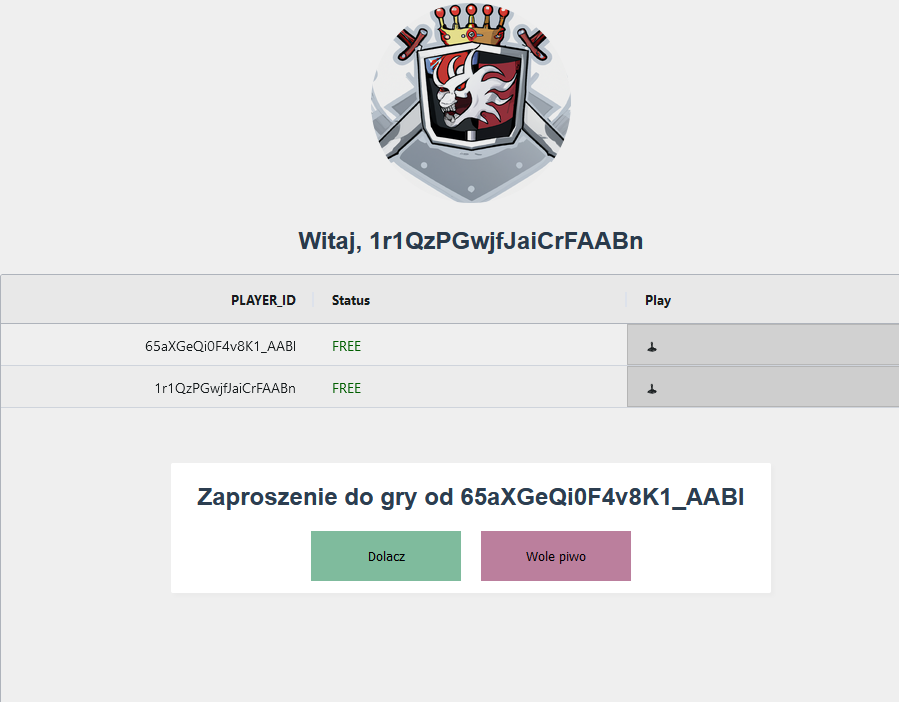
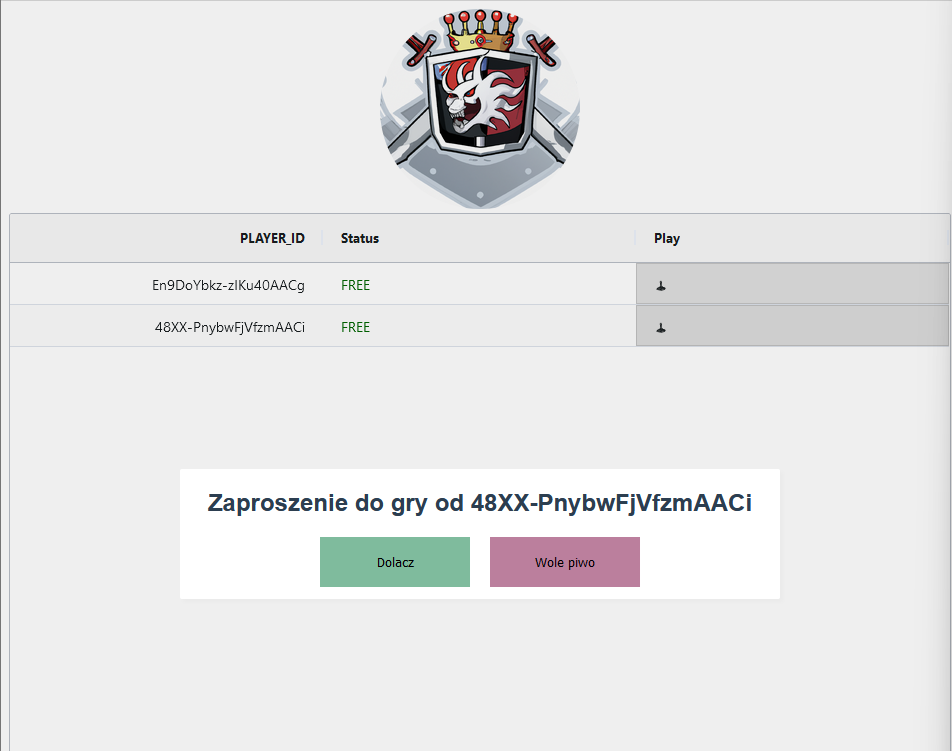
changes

diff --git a/src/views/GameRoom.vue b/src/views/GameRoom.vue
@@ -33,6 +33,7 @@ export default{
           this.board.ships.pop()
           if(this.board.ships.length<1){
             this.mode = 'ready'
+            alertE('Waiting for player move', true)
             this.socket.emit('iAmReady', {
               key:this.gameKey,
               player:this.player,
@@ -82,8 +83,10 @@ export default{
         console.log('game finished', params)
         if(params.looser === this.player.id){
           alertE('You lost')
+          alert('You lost')
         }else{
           alertE('You won')
+          alert('You won')
         }
         setTimeout(()=>{ location.reload()},1500)
       })
@@ -160,15 +163,14 @@ export default{
 </script>
 
 <template>
+  <div>
   <h3 style="margin-bottom:80px;">{{payload.pending}} <span style="color:#c0143c;">⚔</span> {{payload.asking}}</h3>
-  <div v-if="this.mode === 'ready'">
-    <h3 style="color:red; margin-bottom:30px;">READY!</h3>
-    <p class="nomargin">waiting...</p>
   </div>
-  <div v-if="this.opponentReady">
-    <h3 style="color:red; margin-bottom:80px;">Your Opponent is READY!</h3>
+  <div v-if="this.opponentReady" style="height:120px">
+
   </div>
-  <section class="board-container" style="margin-top:-180px;">
+  <section class="board-container" style="height:450px;" >
+    <div class="div" >
     <div style="display: grid;grid-template-columns: 1fr 1fr">
       <main class="board">
       <div v-for="field in this.board.fields.z"
@@ -181,6 +183,10 @@ export default{
       ></div>
       </main>
       <main style=" text-align:right;">
+        <div v-if="this.mode === 'ready'">
+          <h1>Oczekiwanie</h1>
+          <p class="nomargin">Poczekaj na przeciwnika....</p>
+        </div>
         <div v-if="this.mode === 'arrange'">
           <h1>Twoje statki</h1>
           <p class="nomargin">Ulokuj wszystkie statki klikając na pola</p>
@@ -217,6 +223,7 @@ export default{
         </div>
       </main>
     </div>
+    </div>
   </section>
 </template>
 
@@ -224,13 +231,17 @@ export default{
 .board-container{
   width:100vw;
   height:100vh;
-  display:flex;
-  justify-content: center;
-  align-items: center;
+  .div {
+    display: flex;
+    justify-content: center;
+    align-items: center;
+  }
 }
 .board{
   display:grid;
+  grid-gap:2px;
   width:fit-content;
+
   grid-template-columns: repeat(9,1fr);
 
 }

diff --git a/src/views/WaitingRoom.vue b/src/views/WaitingRoom.vue
@@ -51,7 +51,8 @@ export default{
               }
             },
             valueGetter:params=>{
-              return params.data.inGame ? 'IN GAME': 'FREE'
+              console.log('player.id',params.data)
+              return `${params.data.inGame ? 'IN GAME': 'FREE'}`
             }
           },
           {
@@ -195,12 +196,11 @@ export default{
 <template>
   <popup-msg v-if="popup" :message="popup.message" :button1="popup.button1" :button2="popup.button2"></popup-msg>
   <img src="@/assets/herb.png" style="width:200px; border-radius:90%">
-  <section class="game" v-if="this.gameKey">
+  <section  v-if="this.gameKey">
     <game-room :gameKey="this.gameKey" :socket="socket" :player="player" :payload="payload"></game-room>
   </section>
-  <section class="players" style="height:900px;">
-    <h1>Witaj, {{player.id}}</h1>
-
+  <section class="players" style="height:50px;">
+  <div>
     <ag-grid-vue
         class="ag-theme-alpine"
         :columnDefs="grid.columns"
@@ -212,6 +212,7 @@ export default{
         @cellClicked="cellClicked"
     >
     </ag-grid-vue>
+  </div>
   </section>
 
 

diff --git a/src/views/alertE.js b/src/views/alertE.js
@@ -6,7 +6,8 @@ const obj_css = `
    left:20px;
    height:40px;
    border-radius:2px;
-   background:#b91919;
+   background: linear-gradient(275deg, rgba(121,9,74,1) 15%, rgba(255,0,41,1) 100%);
+   border-bottom:solid 3px rgba(255,0,41,1);
    padding:4px;
    font-size:0.9em;
    font-family: Arial, Helvetica, sans-serif;
@@ -16,7 +17,7 @@ export default (message, ylw) =>{
     const div = document.createElement('div')
     div.style.cssText = obj_css;
     div.innerText=message;
-    const color = "#b98119"
+    const color = "linear-gradient(275deg, rgba(9,33,121,1) 15%, rgba(0,131,255,1) 100%);"
     if(ylw){
         div.style.background = color;
     }
